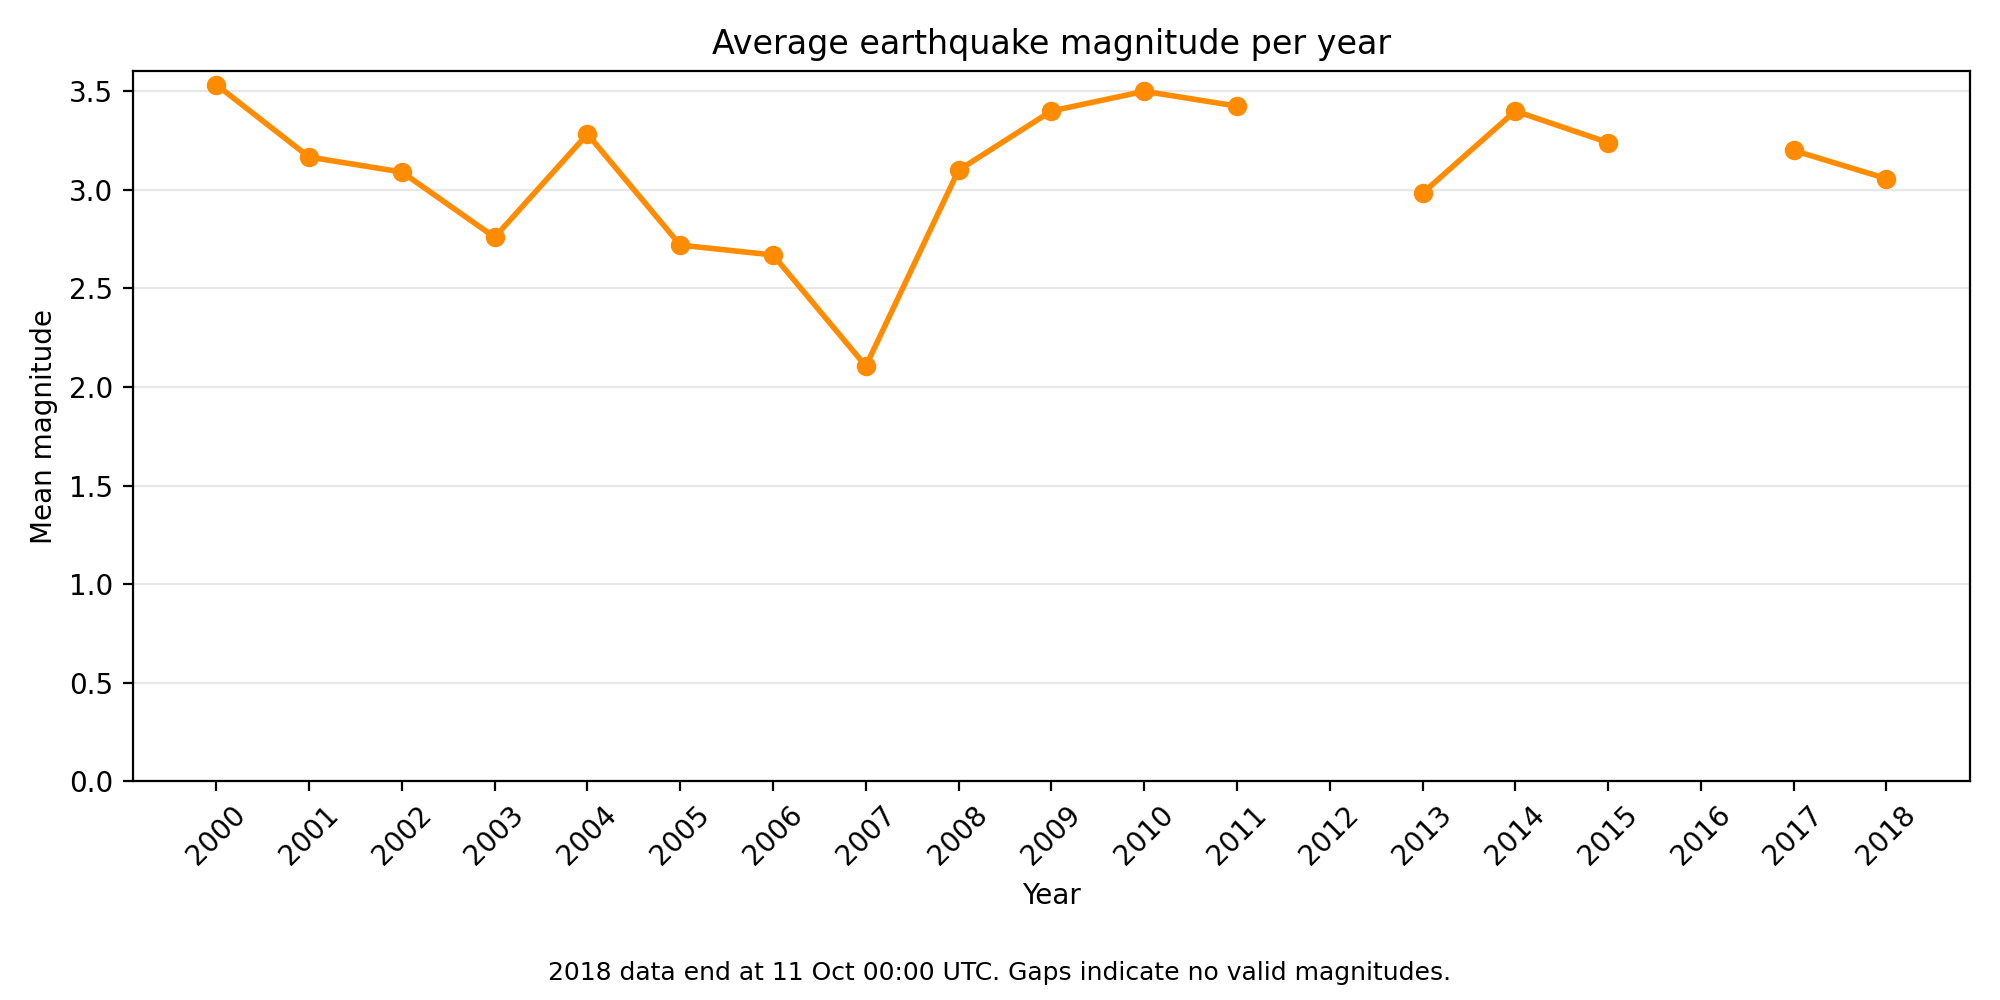
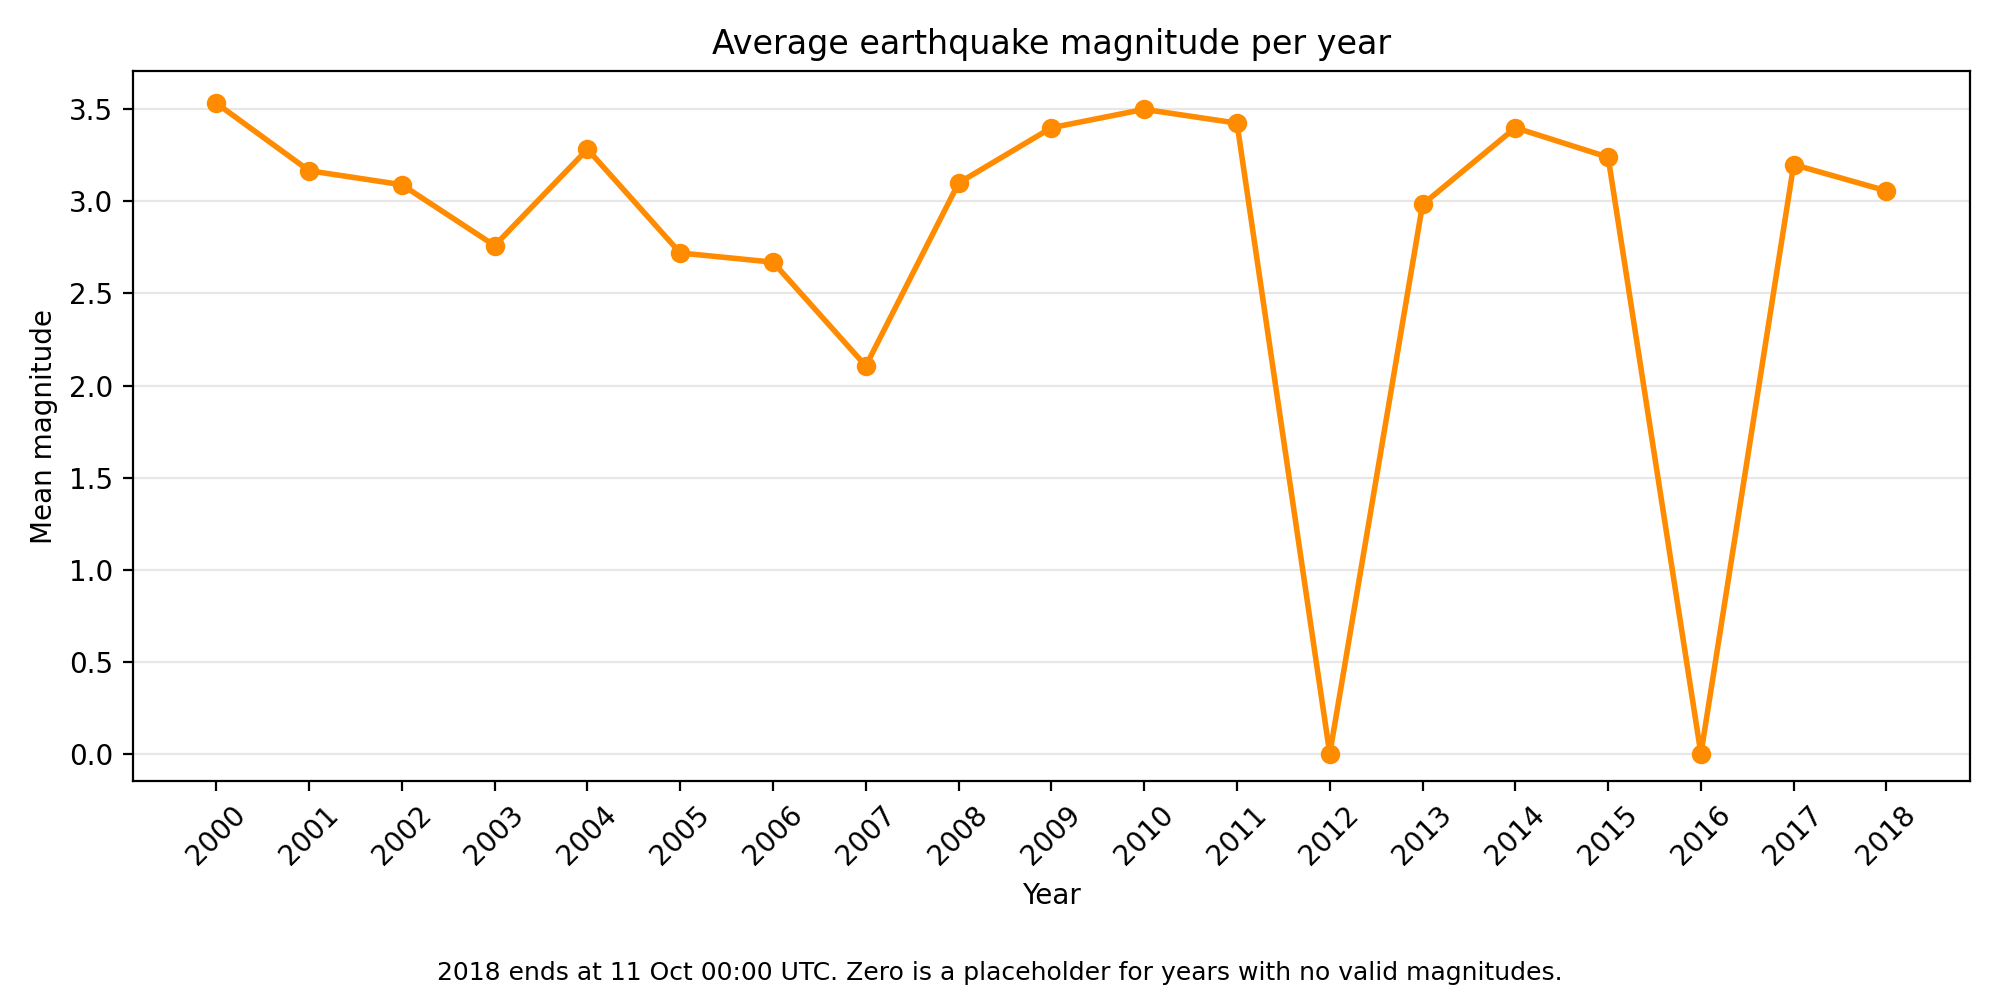
fix

diff --git a/earthquakes.py b/earthquakes.py
@@ -46,7 +46,7 @@ def get_year(earthquake):
     """Extract the year in which an earthquake happened."""
     timestamp = earthquake["properties"]["time"]
 
-    # Convert milliseconds to seconds, then extract the year in UTC.
+    # Convert milliseconds to seconds and use UTC.
     return datetime.fromtimestamp(
         timestamp / 1000, tz=timezone.utc
     ).year
@@ -81,8 +81,8 @@ def plot_average_magnitude_per_year(earthquakes):
         if magnitudes:
             averages.append(sum(magnitudes) / len(magnitudes))
         else:
-            # No observations means an undefined average, not zero.
-            averages.append(float("nan"))
+            # Zero is a plotting placeholder, not a measured mean.
+            averages.append(0)
 
     fig, ax = plt.subplots(figsize=(10, 5))
 
@@ -99,21 +99,27 @@ def plot_average_magnitude_per_year(earthquakes):
     ax.set_ylabel("Mean magnitude")
     ax.set_xticks(YEARS)
     ax.tick_params(axis="x", labelrotation=45)
-    ax.set_ylim(bottom=0)
+
+    # Leave space below zero so the zero markers remain visible.
+    ax.set_ylim(bottom=-0.15)
     ax.set_axisbelow(True)
     ax.grid(axis="y", alpha=0.3)
 
     fig.text(
         0.5,
         0.02,
-        "2018 data end at 11 Oct 00:00 UTC. Gaps indicate no valid magnitudes.",
+        "2018 ends at 11 Oct 00:00 UTC. "
+        "Zero is a placeholder for years with no valid magnitudes.",
         ha="center",
         fontsize=9,
     )
     fig.tight_layout(rect=(0, 0.06, 1, 1))
 
     PLOT_DIR.mkdir(exist_ok=True)
-    fig.savefig(PLOT_DIR / "average_magnitude_per_year.png", dpi=200)
+    fig.savefig(
+        PLOT_DIR / "average_magnitude_per_year.png",
+        dpi=200,
+    )
 
 
 def plot_number_per_year(earthquakes):
@@ -127,7 +133,12 @@ def plot_number_per_year(earthquakes):
 
     fig, ax = plt.subplots(figsize=(10, 5))
 
-    ax.bar(YEARS, counts, color="steelblue", width=0.75)
+    ax.bar(
+        YEARS,
+        counts,
+        color="steelblue",
+        width=0.75,
+    )
 
     ax.set_title("Number of earthquakes per year")
     ax.set_xlabel("Year")
@@ -158,14 +169,16 @@ def plot_number_per_year(earthquakes):
     fig.tight_layout(rect=(0, 0.06, 1, 1))
 
     PLOT_DIR.mkdir(exist_ok=True)
-    fig.savefig(PLOT_DIR / "number_per_year.png", dpi=200)
+    fig.savefig(
+        PLOT_DIR / "number_per_year.png",
+        dpi=200,
+    )
 
 
 if __name__ == "__main__":
     quakes = get_data()["features"]
     print(f"Loaded {len(quakes)} earthquakes")
 
-    # Each function creates a separate figure.
     plot_number_per_year(quakes)
     plot_average_magnitude_per_year(quakes)
 
